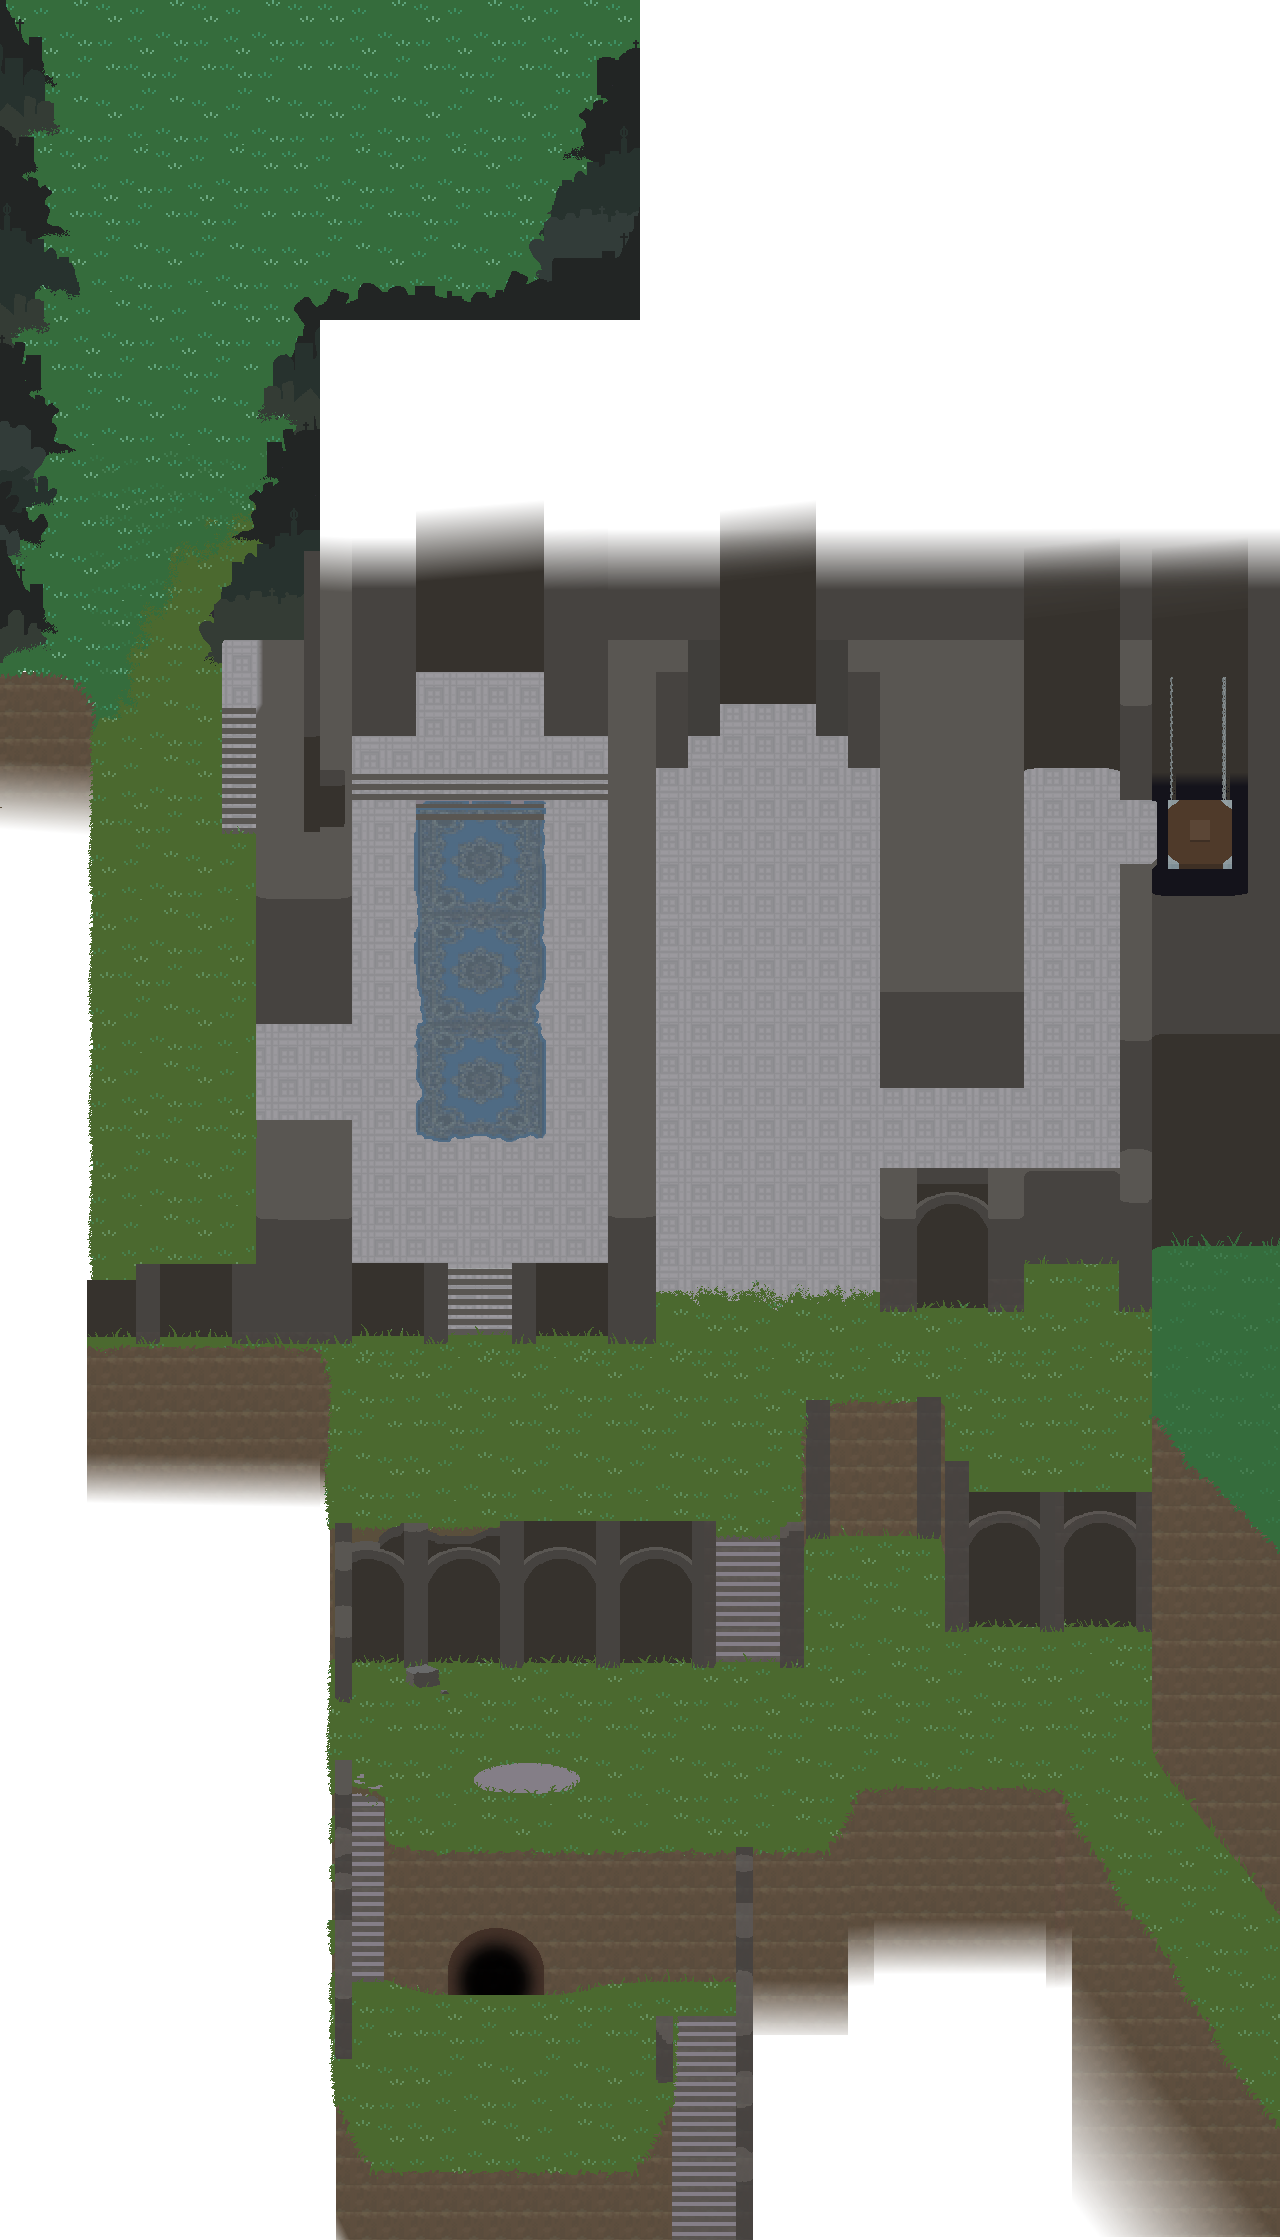
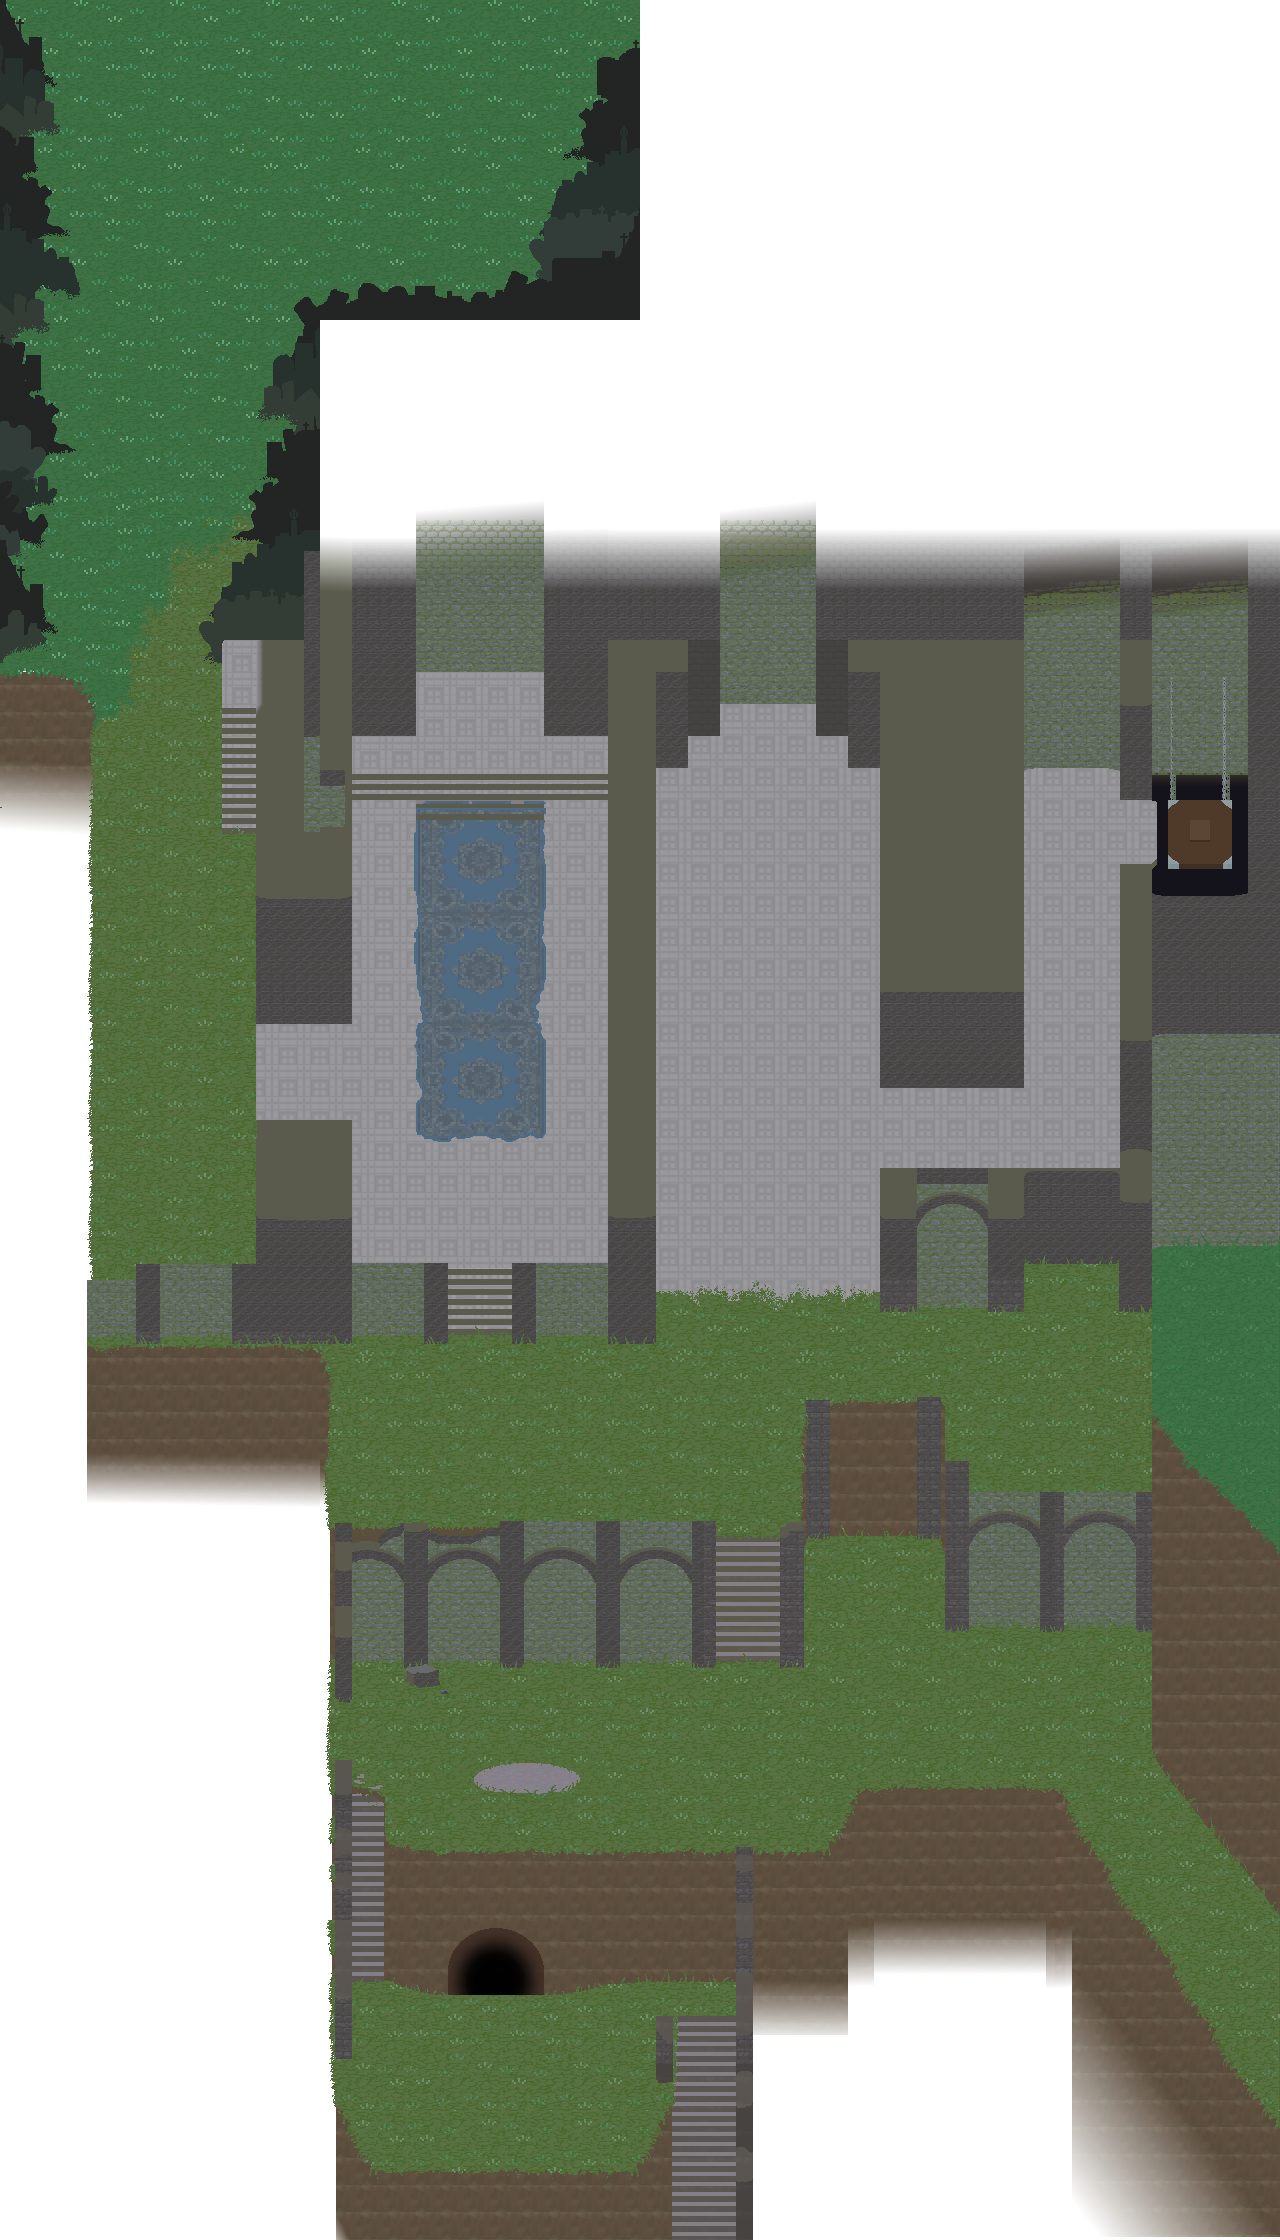
upgrade of map

diff --git a/public/scripts/GameScene.js b/public/scripts/GameScene.js
@@ -619,8 +619,8 @@ class GameScene extends Phaser.Scene {
     .image({ x: this.player.x, y: this.player.y, key: "saintTravis", add: true,
     scale: {
       //fog FX distance
-      x: 0.75,
-      y: 0.75,
+      x: 1,
+      y: 1,
     }, })
     .setOrigin(0.5)
     .setDepth(3000)
